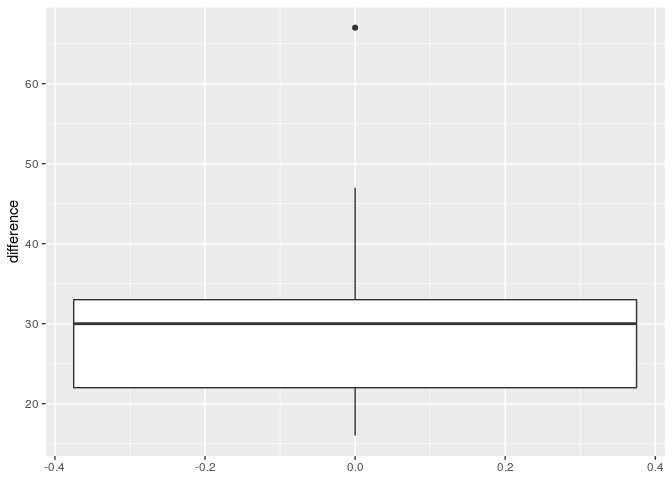
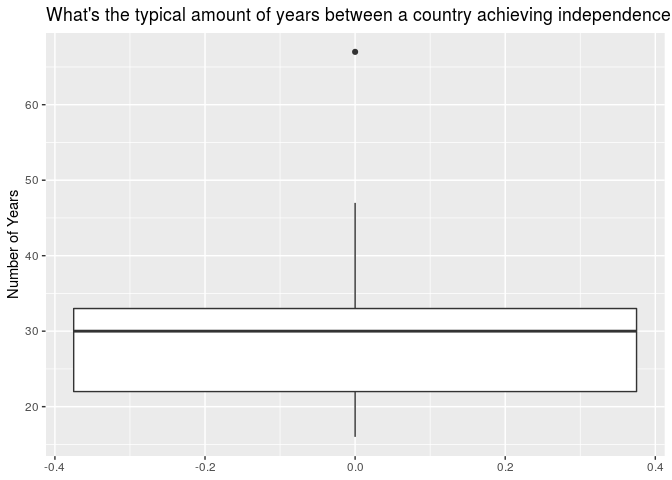
Added narrative to the EDA

diff --git a/proposal/proposal.md b/proposal/proposal.md
@@ -8,14 +8,14 @@ Six-Thirty-Eight
 library(tidyverse)
 ```
 
-    ## ── Attaching packages ──────────────────────────────────────────────── tidyverse 1.2.1 ──
+    ## ── Attaching packages ────────────────────────────────────────────────────── tidyverse 1.2.1 ──
 
     ## ✔ ggplot2 3.2.1     ✔ purrr   0.3.2
     ## ✔ tibble  2.1.3     ✔ dplyr   0.8.3
     ## ✔ tidyr   1.0.0     ✔ stringr 1.4.0
     ## ✔ readr   1.3.1     ✔ forcats 0.4.0
 
-    ## ── Conflicts ─────────────────────────────────────────────────── tidyverse_conflicts() ──
+    ## ── Conflicts ───────────────────────────────────────────────────────── tidyverse_conflicts() ──
     ## ✖ dplyr::filter() masks stats::filter()
     ## ✖ dplyr::lag()    masks stats::lag()
 
@@ -110,6 +110,12 @@ years with systemic crises, with 32.8% of the years recorded having a
 systemic crisis. Out of the 13 African countries in the dataset, only
 South Africa, Angola, and Mauritius had no systemic crises.
 
+Now, we’ll explore an interesting question. Independence movements are
+tricky - while they might achieve democracy and self-governance for a
+country, they often contribute to political and economic stability. For
+each country, we’ll determine how many years after independence a
+country will typically experience it’s next crisis.
+
 ``` r
 output <- tibble(country = distinct(africa, country)$country)
 
@@ -133,7 +139,8 @@ output <- output %>%
   mutate(difference = (crisis_year$year - independence_year$year))
 
 ggplot(data = output, mapping = aes(y = difference)) +
-  geom_boxplot()
+  geom_boxplot() + 
+  labs(title = "What's the typical amount of years between a country achieving independence and its next financial crisis?", y = "Number of Years")
 ```
 
 ![](proposal_files/figure-gfm/independence-1.png)<!-- -->
@@ -153,16 +160,11 @@ banking crisis after they achieve independence is about 30 years, with
 an interquartile range of 11 years. This brings us to an interesting
 question - what values characterize countries that had a long period of
 economic prosperity after independence, and what characterizes countries
-that saw immediate financial
-crises?
+that saw immediate financial crises?
 
-``` r
-ggplot(data = africa, mapping = aes(x = inflation_annual_cpi, y = exch_usd, color = banking_crisis, alpha = 0.5)) +
-  geom_point() + 
-  xlim(-50, 100)
-```
-
-![](proposal_files/figure-gfm/inflation-crisis-relationship-1.png)<!-- -->
+Next, let’s analyze if exchange rate against the dollar and inflation
+rate correlate with economic
+crises.
 
 ``` r
 ggplot(data = africa, mapping = aes(x = inflation_annual_cpi, y = exch_usd, color = banking_crisis)) +
@@ -170,7 +172,7 @@ ggplot(data = africa, mapping = aes(x = inflation_annual_cpi, y = exch_usd, colo
   xlim(-10, 100)
 ```
 
-![](proposal_files/figure-gfm/inflation-crisis-relationship-2.png)<!-- -->
+![](proposal_files/figure-gfm/inflation-crisis-relationship-1.png)<!-- -->
 
 We see that high levels of inflation often correspond to banking crises
 - but this is not always true. There were many cases of banking crises
